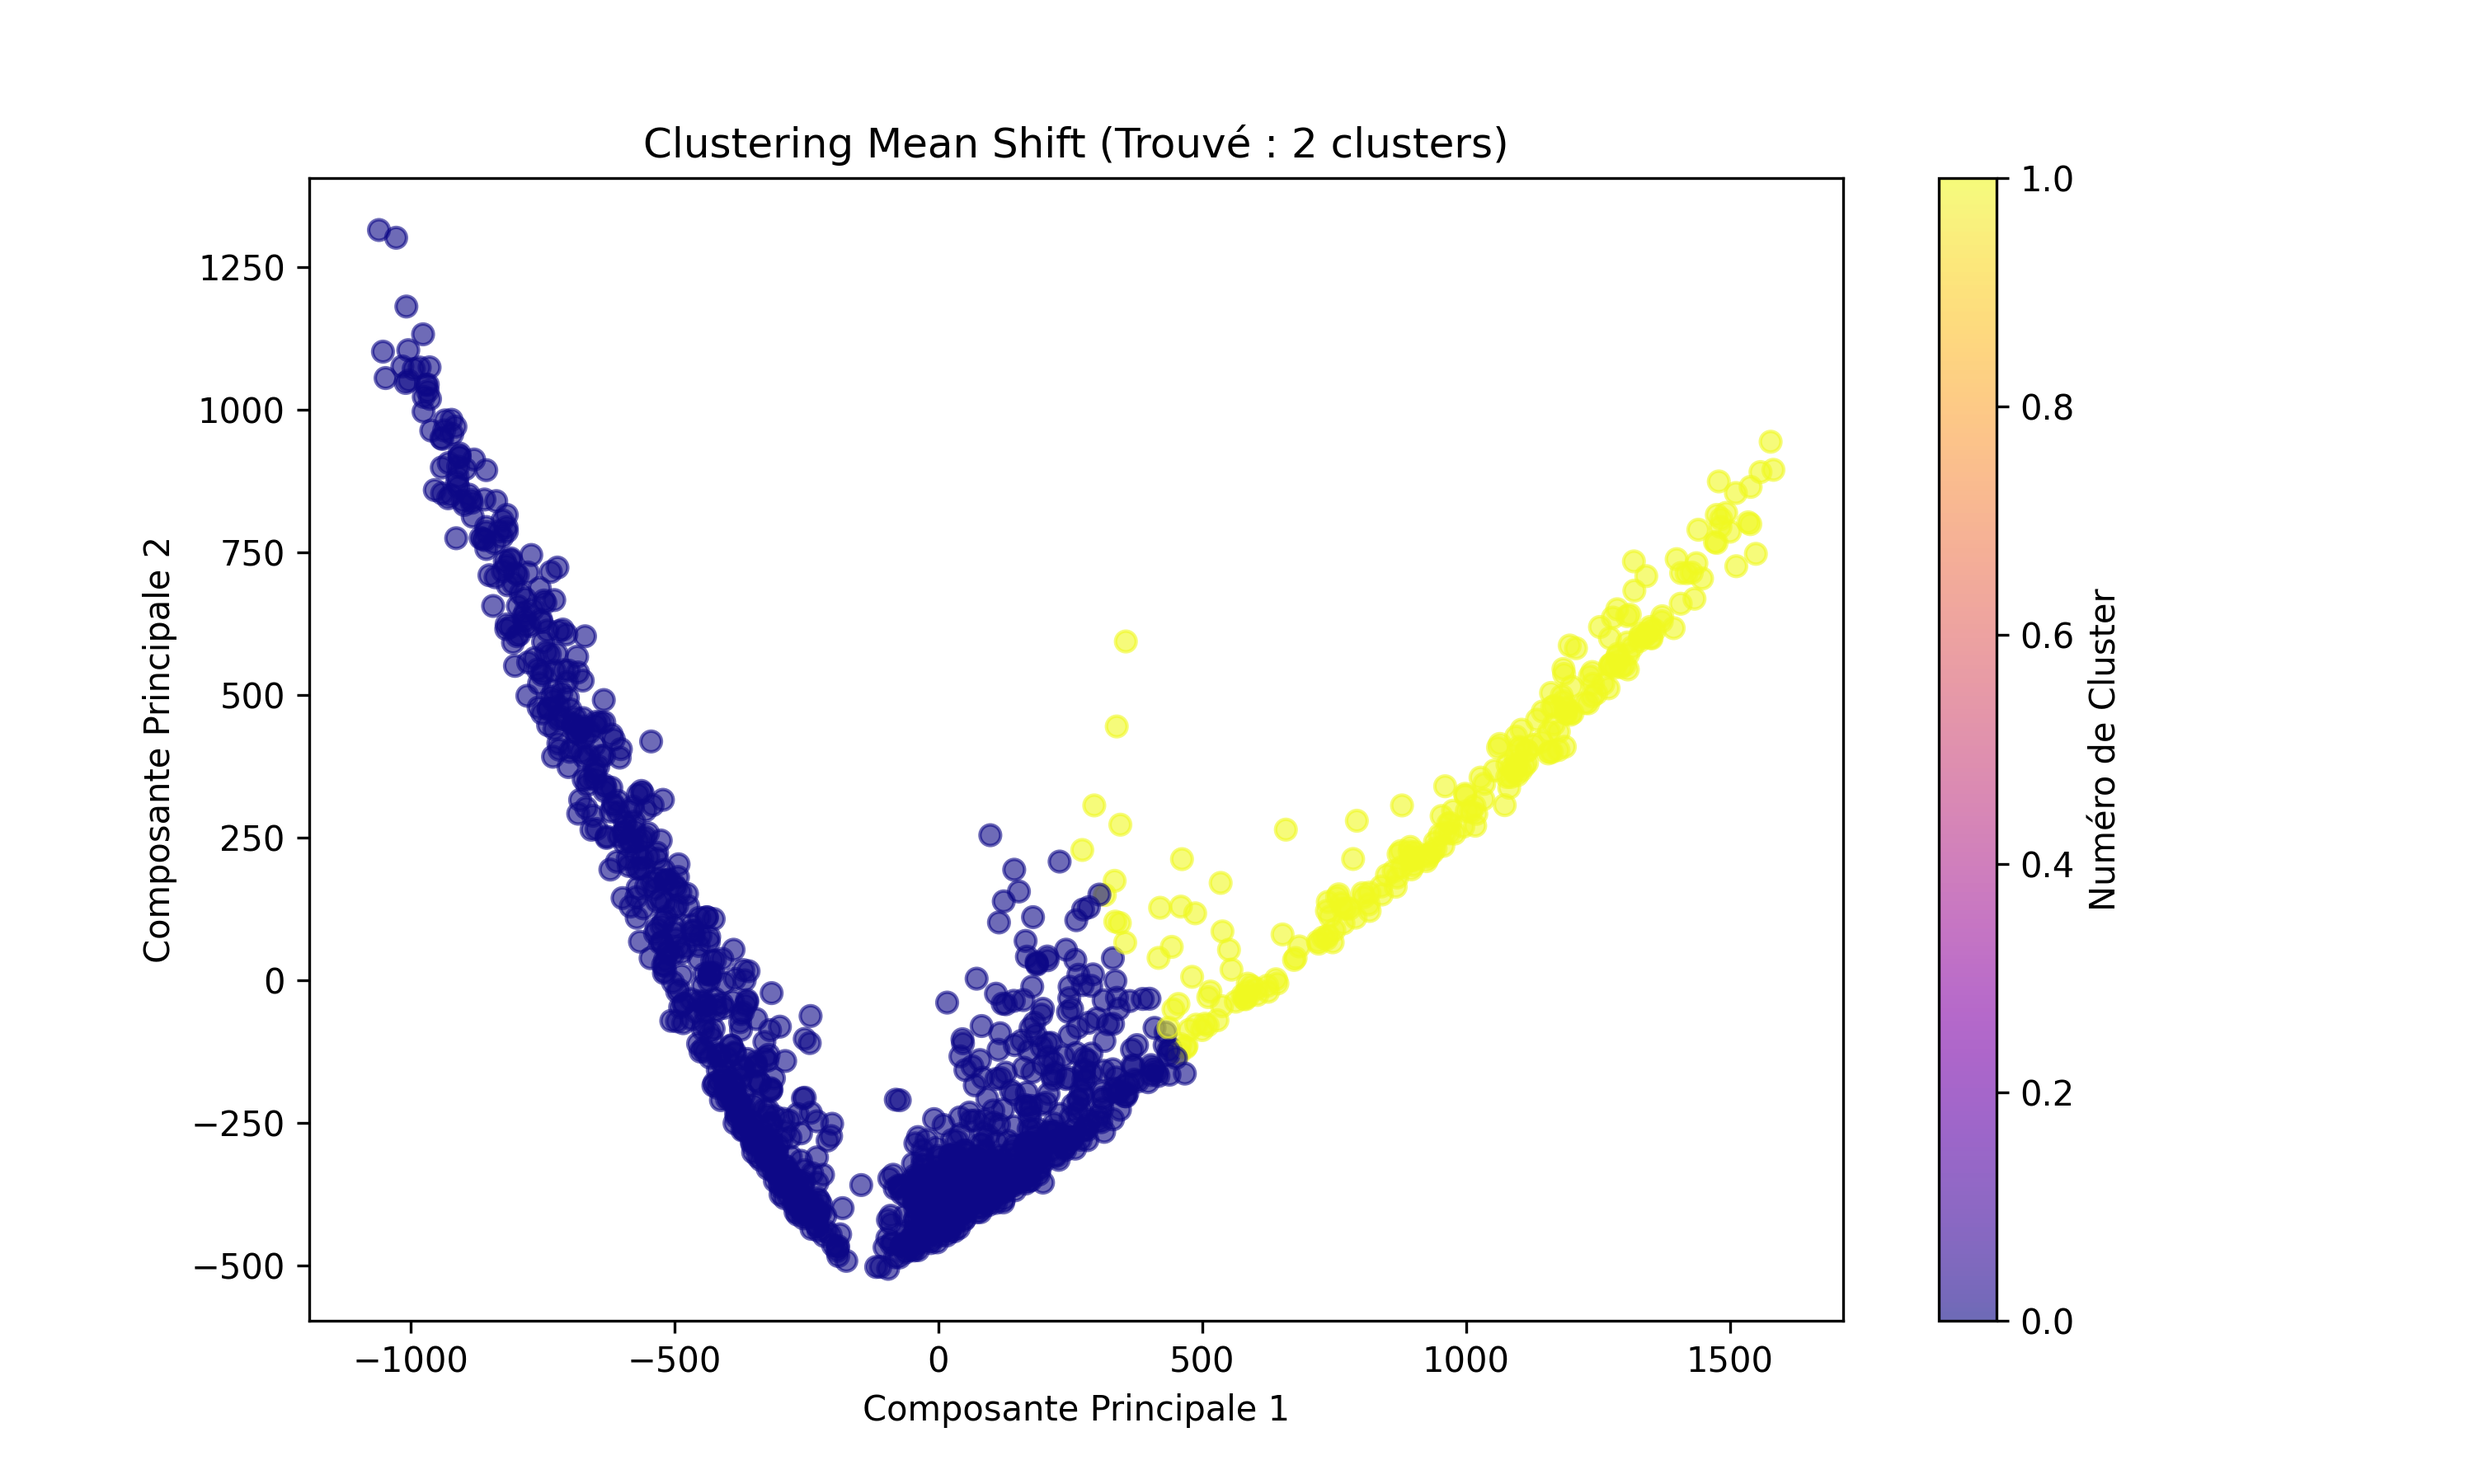
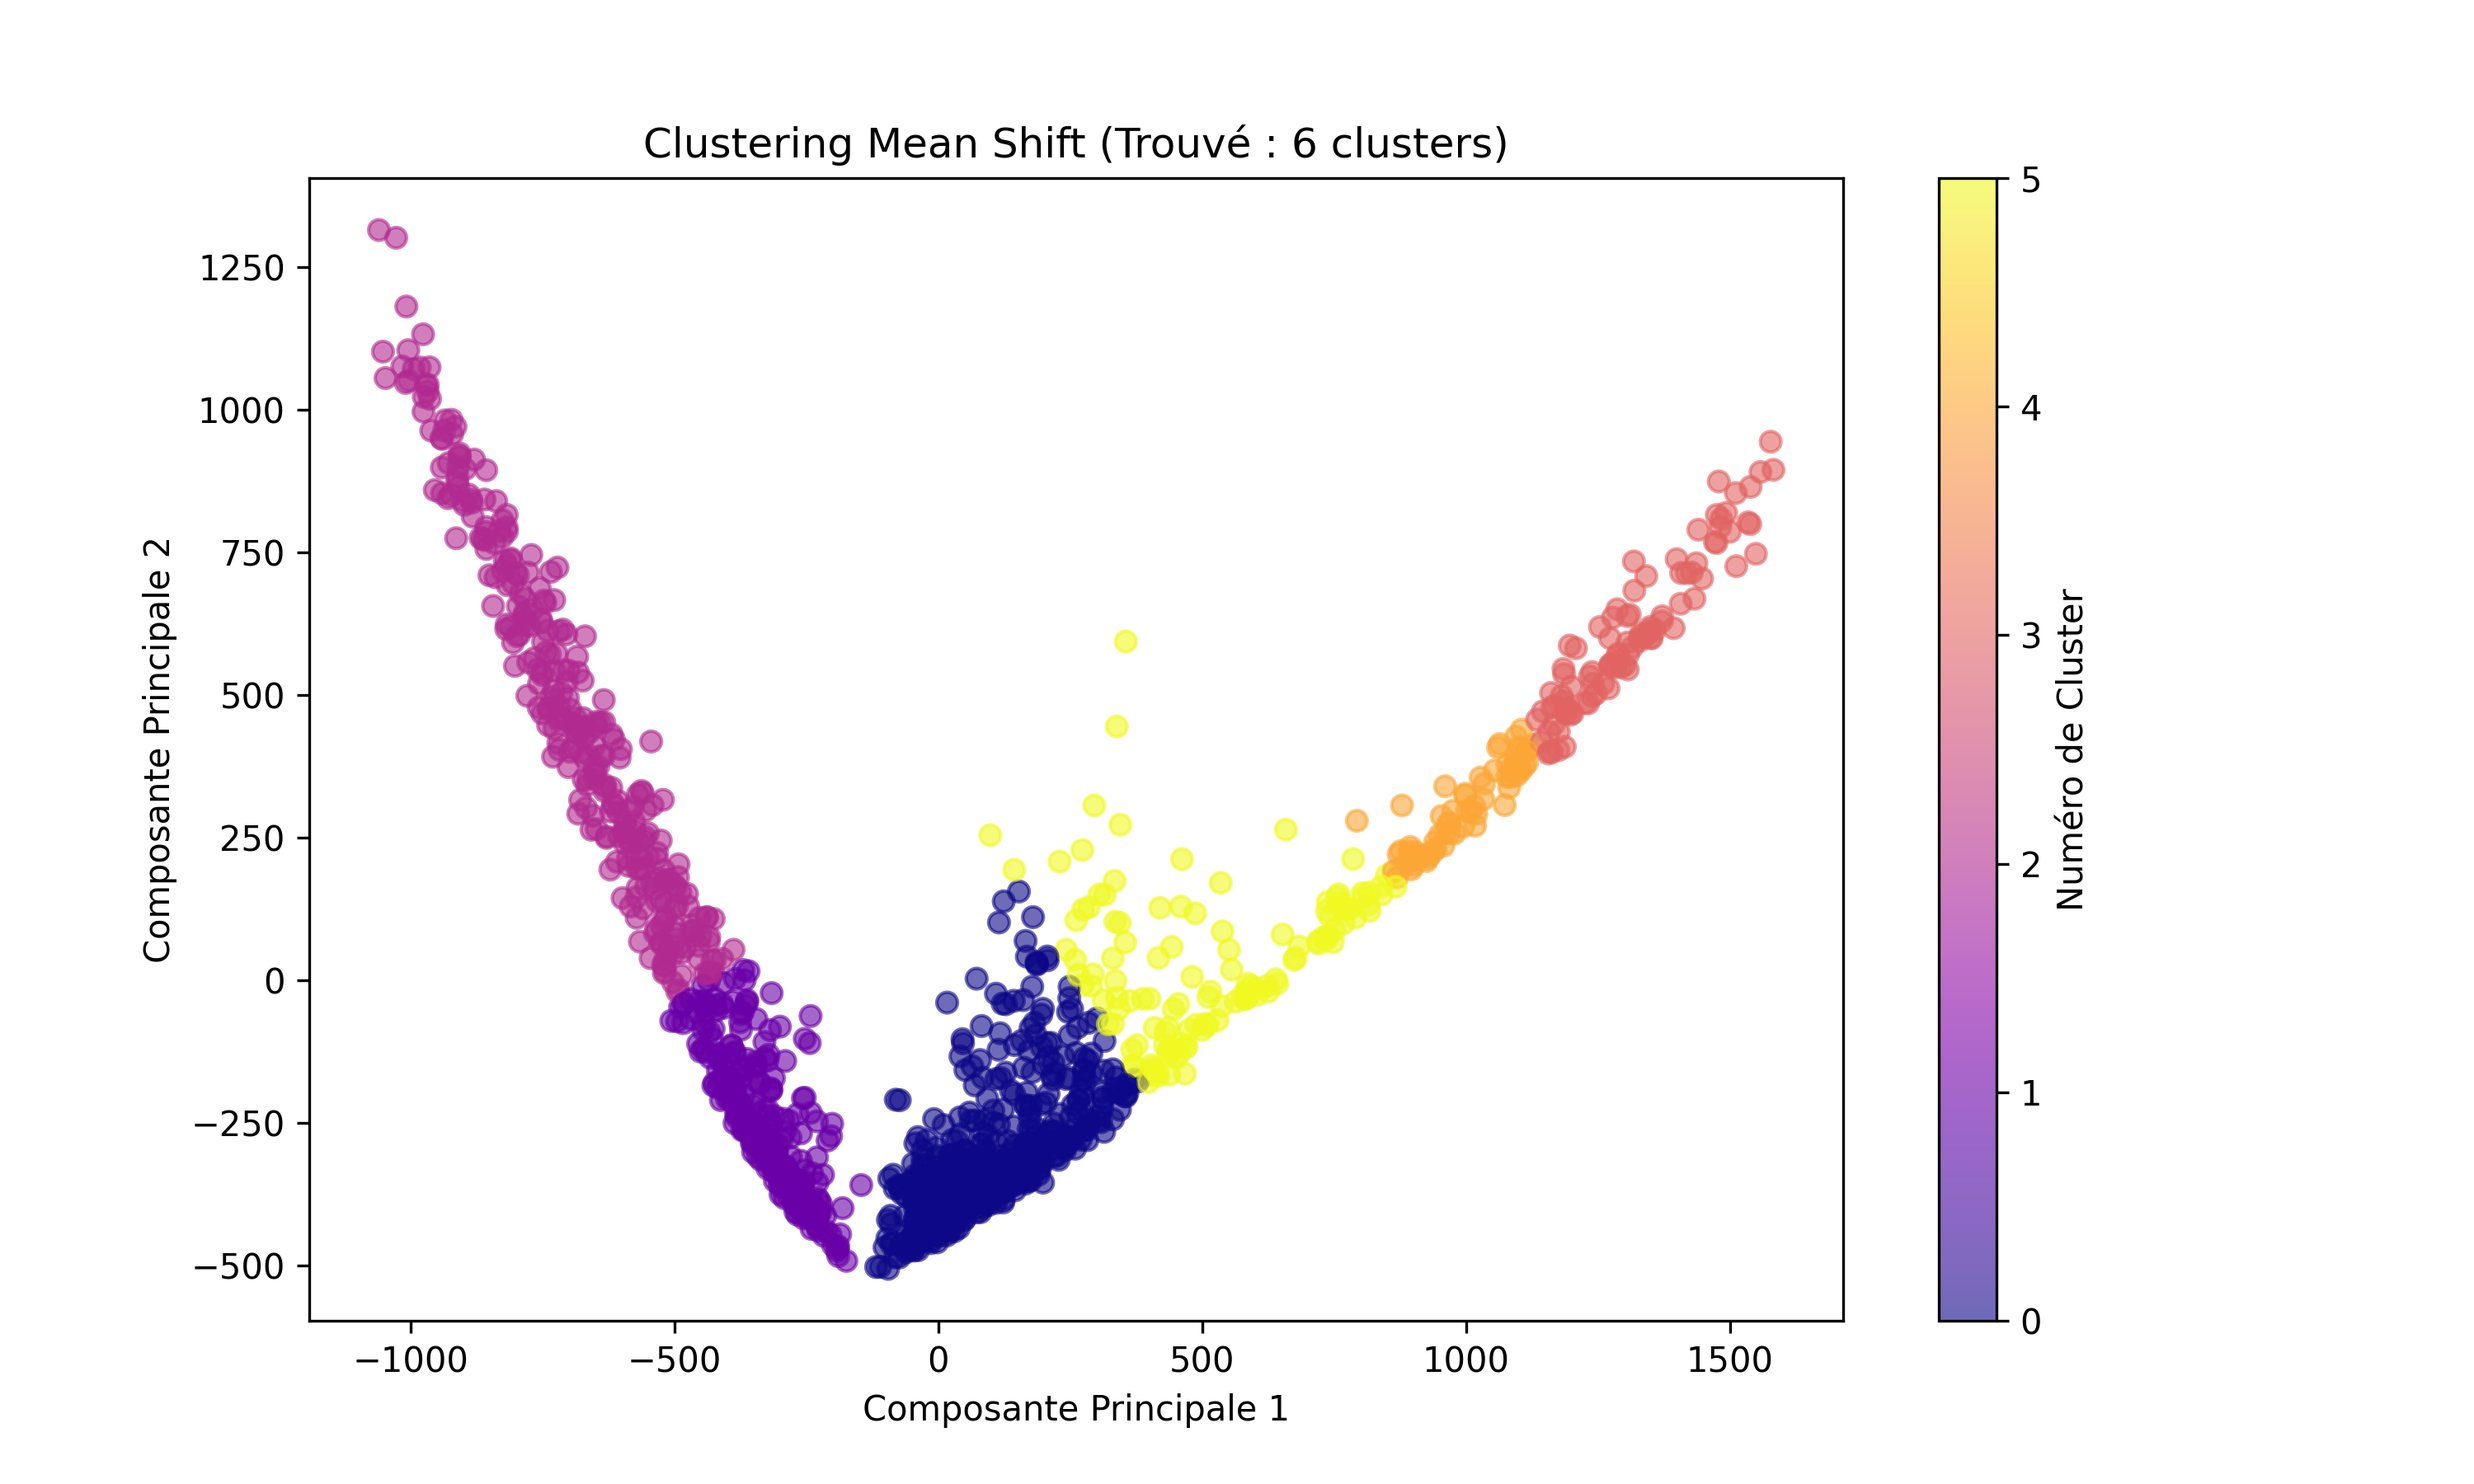
Ajout calcul ARI, visualisation PCA et changement param lissage mean shift

diff --git a/phase2_classification/clustering_models.py b/phase2_classification/clustering_models.py
@@ -56,3 +56,101 @@ if __name__ == "__main__":
     output_path = SCRIPT_DIR / "kmeans_clusters.png"
     plt.savefig(output_path, dpi=300)
     print(f"Graphique de clustering sauvegardé sous : {output_path}")
+
+    # ====================================================================
+    # ---  INTERPRÉTATION PHYSIQUE DE LA PCA  ---
+    # ====================================================================
+
+    print("\n--- Analyse des composantes principales ---")
+
+    # ---------------------------------------------------------
+    # MÉTHODE 1 : Les images extrêmes de l'Axe X (Composante 1)
+    # ---------------------------------------------------------
+    # 1. On trouve l'index du point le plus à gauche et le plus à droite
+    index_extreme_gauche = np.argmin(X_pca[:, 0])
+    index_extreme_droite = np.argmax(X_pca[:, 0])
+
+    # 2. On récupère les lignes de pixels d'origine (4096 valeurs) et on reforme le carré de 64x64
+    img_gauche = X_data[index_extreme_gauche].reshape((64, 64))
+    img_droite = X_data[index_extreme_droite].reshape((64, 64))
+
+    # 3. On affiche les deux images côte à côte
+    fig, axes = plt.subplots(1, 2, figsize=(12, 5))
+    axes[0].imshow(img_gauche, cmap='viridis', origin='lower')
+    axes[0].set_title(f"Point extrême GAUCHE\n(Vraie étiquette : {y_true[index_extreme_gauche]})")
+
+    axes[1].imshow(img_droite, cmap='viridis', origin='lower')
+    axes[1].set_title(f"Point extrême DROITE\n(Vraie étiquette : {y_true[index_extreme_droite]})")
+    plt.suptitle("Ce qui sépare le plus nos données (Axe X)")
+
+    # Sauvegarde
+    plt.savefig(SCRIPT_DIR / "pca_extremes.png", dpi=300)
+    plt.close()
+
+    # ---------------------------------------------------------
+    # MÉTHODE 2 : L'image "Fantôme" (Loadings de la PCA)
+    # ---------------------------------------------------------
+    # pca.components_ contient les "recettes" de nos axes.
+    # La ligne [0] est la recette de la Composante 1. On la reforme en 64x64.
+    image_fantome_pc1 = pca.components_[0].reshape((64, 64))
+
+    plt.figure(figsize=(8, 6))
+    # On utilise 'coolwarm' : Rouge = pixels très importants en positif, Bleu = pixels très importants en négatif
+    plt.imshow(image_fantome_pc1, cmap='coolwarm', origin='lower')
+    plt.colorbar(label="Poids (Importance du pixel pour la PCA)")
+    plt.title("Image Fantôme (PC1) : Quelles fréquences la machine regarde-t-elle ?")
+
+    # Sauvegarde
+    plt.savefig(SCRIPT_DIR / "pca_fantome.png", dpi=300)
+    plt.close()
+
+    print("Graphiques d'analyse de la PCA générés : 'pca_extremes.png' et 'pca_fantome.png'")
+
+    # ---------------------------------------------------------
+    # MÉTHODE 1 bis : Les images extrêmes de l'Axe Y (Composante 2)
+    # ---------------------------------------------------------
+    # On regarde la colonne 1 (qui correspond à l'axe Y en Python)
+    index_extreme_bas = np.argmin(X_pca[:, 1])
+    index_extreme_haut = np.argmax(X_pca[:, 1])
+
+    img_bas = X_data[index_extreme_bas].reshape((64, 64))
+    img_haut = X_data[index_extreme_haut].reshape((64, 64))
+
+    fig, axes = plt.subplots(1, 2, figsize=(12, 5))
+    axes[0].imshow(img_bas, cmap='viridis', origin='lower')
+    axes[0].set_title(f"Point extrême BAS (Y négatif)\n(Vraie étiquette : {y_true[index_extreme_bas]})")
+
+    axes[1].imshow(img_haut, cmap='viridis', origin='lower')
+    axes[1].set_title(f"Point extrême HAUT (Y positif)\n(Vraie étiquette : {y_true[index_extreme_haut]})")
+    plt.suptitle("Ce qui sépare le plus nos données (Axe Y)")
+
+    plt.savefig(SCRIPT_DIR / "pca_extremes_Y.png", dpi=300)
+    plt.close()
+
+    # ====================================================================
+    # ---  VÉRITÉ TERRAIN (GROUND TRUTH) ---
+    # ====================================================================
+    print("\n--- Étape 5 : Génération de la Vérité Terrain ---")
+
+    # On récupère la liste des noms de classes uniques
+    classes_uniques = np.unique(y_true)
+    cmap = plt.cm.get_cmap('tab10', len(classes_uniques))
+
+    plt.figure(figsize=(10, 6))
+
+    for i, nom_classe in enumerate(classes_uniques):
+        masque = (y_true == nom_classe)
+        plt.scatter(X_pca[masque, 0], X_pca[masque, 1],
+                    label=nom_classe, color=cmap(i), alpha=0.6)
+
+    plt.title("Vérité Terrain : Les vraies classes biologiques (Après PCA)")
+    plt.xlabel("Composante Principale 1 (Continu vs Impulsif)")
+    plt.ylabel("Composante Principale 2 (Faible vs Puissant)")
+
+    plt.legend(title="Classes réelles", bbox_to_anchor=(1.05, 1), loc='upper left')
+    plt.tight_layout()
+
+    # Sauvegarde du graphique
+    output_path_gt = SCRIPT_DIR / "verite_terrain.png"
+    plt.savefig(output_path_gt, dpi=300)
+    print(f"Graphique de la vérité terrain sauvegardé sous : {output_path_gt}")

diff --git a/mean_shift_dir/mean_shift_clustering.py b/mean_shift_dir/mean_shift_clustering.py
@@ -3,25 +3,27 @@ import matplotlib.pyplot as plt
 from pathlib import Path
 from PIL import Image
 from tqdm.auto import tqdm
-
+from sklearn.metrics import adjusted_rand_score
 from sklearn.decomposition import PCA
-from sklearn.cluster import MeanShift
+from sklearn.cluster import MeanShift, estimate_bandwidth
 
 
 # --- 1. FONCTION DE CHARGEMENT ---
 def load_data_sklearn(base_dir, split, max_images=None):
     input_dir = Path(base_dir) / "imagettes_padded" / split
-    X = []
+    X, y = [], []
     classes = [d for d in input_dir.iterdir() if d.is_dir()]
 
-    for class_dir in tqdm(classes, desc=f"Chargement {split} (Mean Shift)"):
+    for class_dir in tqdm(classes, desc=f"Chargement {split}"):
+        class_name = class_dir.name
         files = list(class_dir.glob("*.png"))
         if max_images: files = files[:max_images]
         for file in files:
             with Image.open(file) as img:
                 img_resized = img.convert('L').resize((64, 64), Image.Resampling.BILINEAR)
                 X.append(np.array(img_resized).flatten())
-    return np.array(X)
+                y.append(class_name)
+    return np.array(X), np.array(y)
 
 
 if __name__ == "__main__":
@@ -31,18 +33,23 @@ if __name__ == "__main__":
     base_path = PROJECT_ROOT / "biodcase_development_set"
 
     print("--- Étape 1 : Chargement des données ---")
-    X_data = load_data_sklearn(base_path, "train", max_images=200)
+    X_data, y_true = load_data_sklearn(base_path, "train", max_images=200)
 
     print("\n--- Étape 2 : Réduction de dimension (PCA 2D) ---")
     pca = PCA(n_components=2, random_state=42)
     X_pca = pca.fit_transform(X_data)
 
     print("\n--- Étape 3 : Clustering (Mean Shift) ---")
-    ms = MeanShift()
+    rayon_estime = estimate_bandwidth(X_pca, quantile=0.1)
+    ms = MeanShift(bandwidth=rayon_estime)
     clusters_ms = ms.fit_predict(X_pca)
 
     n_clusters = len(np.unique(clusters_ms))
     print(f"Mean Shift a trouvé {n_clusters} clusters tout seul !")
+
+    # --- LE CALCUL DU SCORE ARI ---
+    ari_ms = adjusted_rand_score(y_true, clusters_ms)
+    print(f" Score ARI pour Mean Shift : {ari_ms:.4f}")
 
     # --- Étape 4 : Visualisation ---
     plt.figure(figsize=(10, 6))

diff --git a/hbdscan_dir/hbdscan_clustering.py b/hbdscan_dir/hbdscan_clustering.py
@@ -3,24 +3,27 @@ import matplotlib.pyplot as plt
 from pathlib import Path
 from PIL import Image
 from tqdm.auto import tqdm
-from sklearn.cluster import HDBSCAN
+from sklearn.cluster import HDBSCAN, estimate_bandwidth
 from sklearn.decomposition import PCA
+from sklearn.metrics import adjusted_rand_score
 
 # --- 1. CHARGEMENT DES DONNEES ---
 
 def load_data_sklearn(base_dir, split, max_images=None):
     input_dir = Path(base_dir) / "imagettes_padded" / split
-    X = []
+    X, y = [], []
     classes = [d for d in input_dir.iterdir() if d.is_dir()]
 
-    for class_dir in tqdm(classes, desc=f"Chargement {split} (HDBSCAN)"):
+    for class_dir in tqdm(classes, desc=f"Chargement {split}"):
+        class_name = class_dir.name
         files = list(class_dir.glob("*.png"))
         if max_images: files = files[:max_images]
         for file in files:
             with Image.open(file) as img:
                 img_resized = img.convert('L').resize((64, 64), Image.Resampling.BILINEAR)
                 X.append(np.array(img_resized).flatten())
-    return np.array(X)
+                y.append(class_name)
+    return np.array(X), np.array(y)
 
 if __name__ == '__main__':
     SCRIPT_DIR = Path(__file__).resolve().parent
@@ -28,7 +31,7 @@ if __name__ == '__main__':
     base_path = PROJECT_ROOT / "biodcase_development_set"
 
     print("--- Étape 1 : Chargement des données ---")
-    X_data = load_data_sklearn(base_path, "train", max_images=200)
+    X_data, y_true = load_data_sklearn(base_path, "train", max_images=200)
 
     print("\n--- Étape 2 : Réduction de dimension (PCA 2D) ---")
     pca = PCA(n_components=2, random_state=42)
@@ -37,6 +40,10 @@ if __name__ == '__main__':
     print("\n--- Étape 3 : Clustering (HDBSCAN) ---")
     hdb = HDBSCAN(min_cluster_size=10)
     clusters_hdb = hdb.fit_predict(X_pca)
+
+    # CALCUL DU SCORE ARI
+    ari_hdb = adjusted_rand_score(y_true, clusters_hdb)
+    print(f"Score ARI global pour HDBSCAN : {ari_hdb:.4f}")
 
     plt.figure(figsize=(10, 6))
 
